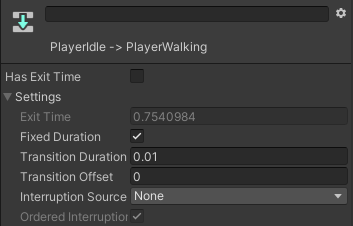
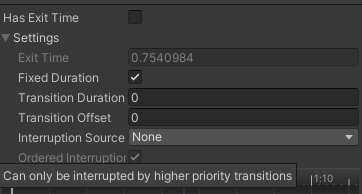
Update and Added Files

diff --git a/docs/wiki/03_AnimatePlayer.md b/docs/wiki/03_AnimatePlayer.md
@@ -51,21 +51,41 @@ Aquí es donde se van a meter la condiciones y propiedades necesarias para contr
 
  2 - Hacemos lo mismo que en el punto 1, pero esta vez desde `PlayerWalking` hacia `PlayerIdle`.
 
- 3 - Le damos a `Parameters` y añadimos un nuevo parámetro de tipo `Float` al que llamaremos `VelocidadH`.
+ 3 - Le damos a `Parameters` y añadimos un nuevo parámetro de tipo `Bool` al que llamaremos `walk`.
 
  ![AddParameter](imgWiki/11_AddParameter.png)
 
- ![HorizontalVelocity](imgWiki/11_VelocidadH.png)
+ ![HorizontalVelocity](imgWiki/11_WalkParameter.png)
 
- 4 - Seleccionamos cada transición (_las lineas con las flechas de Animator_, _la de Entry a PlayerIdle NO_) y en las propiedades del panel `Inspector`, desmarcamos `Has Exit Time` y ponemos como valor en `Transition Duration` 0.01.
+ 4 - Seleccionamos cada transición (_las lineas con las flechas de Animator_, _la de Entry a PlayerIdle NO_) y en las propiedades del panel `Inspector`, desmarcamos `Has Exit Time` y ponemos como valor en `Transition Duration` 0.
 
  ![Transition Parameters](imgWiki/11_TransitionParameters.png)
 
- 5 - Añadimos a cada transición una condición, la cual será en función del valor de VelocidadH.
+ 5 - Añadimos a cada transición una condición, la cual será en función del valor de la variable `walk`.
  
  ![Idle To Walking](imgWiki/11_IdleWalkingCondition.png)
 
  ![Walking To Idle](imgWiki/11_WalkingIdleCondition.png)
 
  6 - Una vez añadidas las condiciones, debemos modificar nuestro `script PlayerController` para que dichas condiciones actuen.
-  *  
+  * Agregamos a nuestro `script` una variable de clase nueva para referenciar al componente `Animator`.
+  `Animator anPlayer;` 
+
+  * Referenciamos al componente en el metodo `Start` con instrucción:
+  `anPlayer = gameObject.GetComponent<Animator>();`
+
+  * A continuación modificamos el método `MoveHorizontalPlayer`:
+  ```c#
+    void MoveHorizontalPlayer()
+    {
+        //Aplicamos una fuerza para desplazar al personaje horizontalmente
+        rbPlayer.AddForce(Vector2.right * speedPlayer * Input.GetAxisRaw("Horizontal") * Time.deltaTime );
+    
+        if (Mathf.Round(rbPlayer.velocity.x) > 0 || Mathf.Round(rbPlayer.velocity.x) < 0)
+        {
+            anPlayer.SetBool("walk", true); //Cambia el valor de la variable del Animator
+            Debug.Log(Mathf.Round(rbPlayer.velocity.x)); 
+        }
+        else if (Mathf.Round(rbPlayer.velocity.x) == 0) anPlayer.SetBool("walk", false);
+    }
+  ``` 
